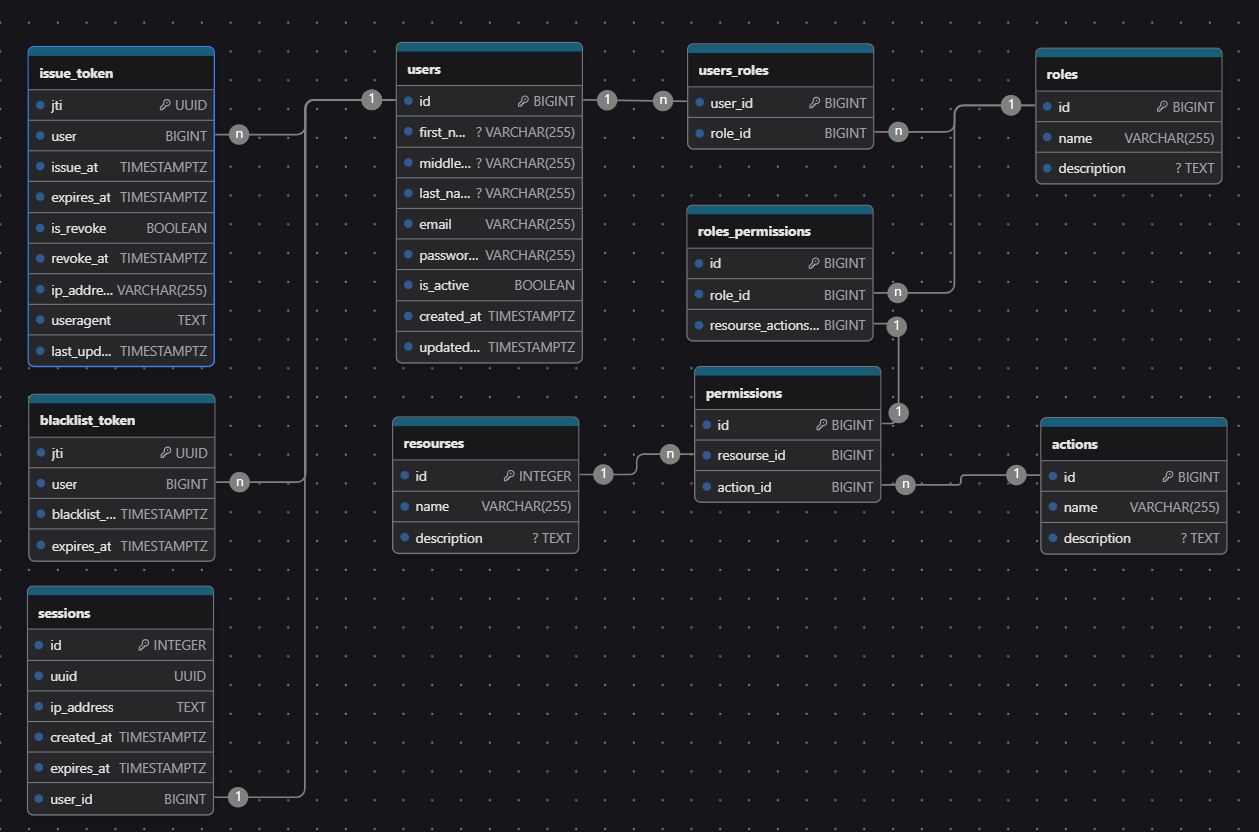
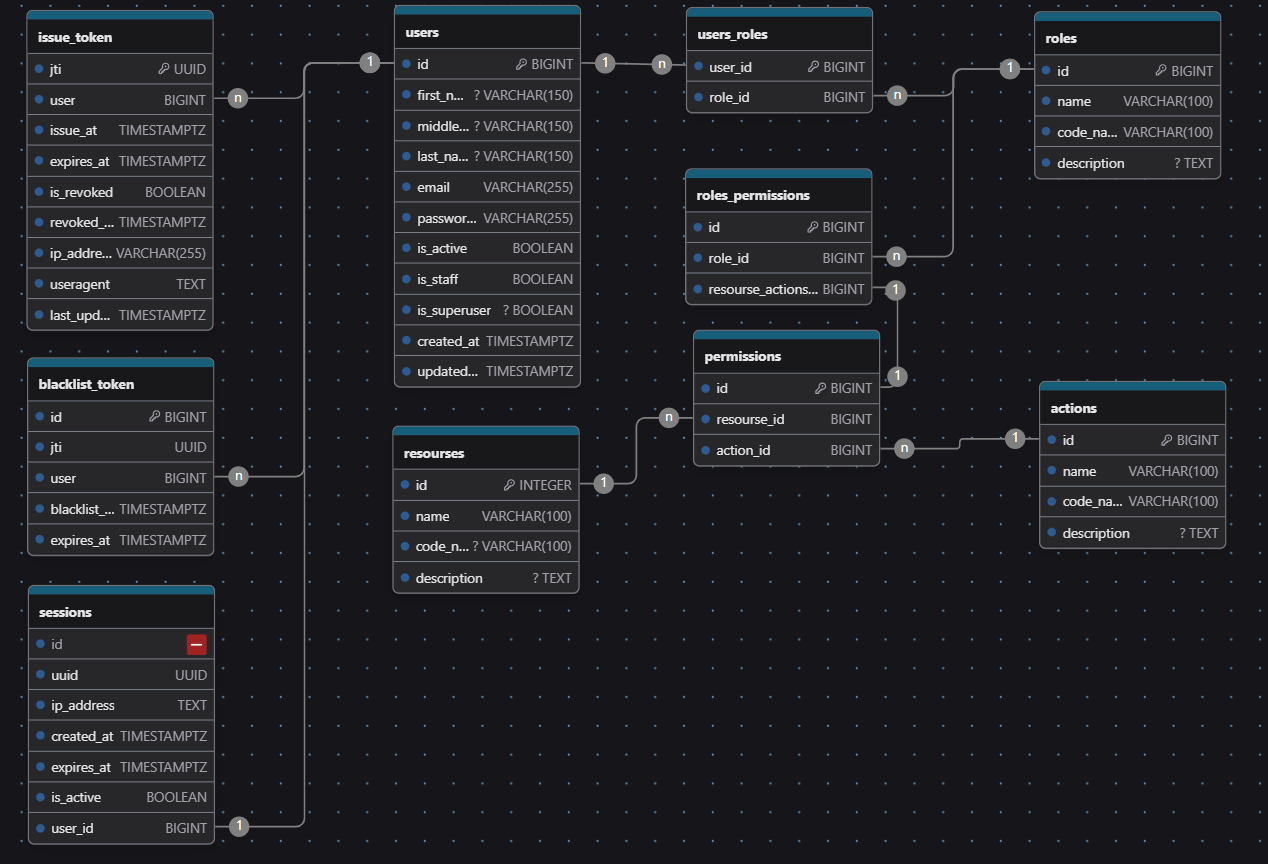
Добавлены
...

Changed region(s): [[0.2478, 0.0, 0.9913, 0.6875], [0.0, 0.0, 0.2478, 1.0]]

diff --git a/auth_app/urls.py b/auth_app/urls.py
@@ -12,6 +12,7 @@ main_router.register(r'users', CustomUserAPIView, basename='user')
 main_router.register(r'roles', RolesAPIView, basename='role')
 main_router.register(r'actions', ActionsViewSet, basename='action')
 main_router.register('resourses', ResoursesAPIView, basename='resourse')
+main_router.register('session', SessionsViewSet, basename='session')
 
 # TODO проверить таблицы в README.md
 urlpatterns = [
@@ -26,7 +27,7 @@ urlpatterns = [
     # path('token/revoke/<int:user_id>/', AdminTokenRevokeAPIView.as_view(), name='admin_token_revoke'),  # Заморозил. Не нашел для чего применить.
     path('token/revoke_all/<int:user_id>/', AdminTokenRevokeALLAPIView.as_view(), name='admin_token_revoke_all'),
 
-    path('me/get_sessions/', MySessionsAPIView.as_view(), name='get_my_sessions'),
+    path('me/get_sessions/', MySessionsAPIView.as_view(), name='get_my_sessions'),  # здесь имеются ввиду refresh токены
     path('me/get_sessions/<int:user_id>', AdminSessionsAPIView.as_view(), name='get_my_sessions'),
     path('me/', MyProfileAPIView.as_view({'get': 'list'}), name='me'),
 

diff --git a/auth_app/permissions/users.py b/auth_app/permissions/users.py
@@ -1,4 +1,4 @@
-from rest_framework.permissions import BasePermission
+from rest_framework.permissions import BasePermission, IsAdminUser
 
 # from auth_app.models import permissions
 
@@ -7,8 +7,17 @@ __all__ = [
     'CanEditUserFieldsPermission',
     'DeleteUserModelPermission',
     'PostUserModelPermission',
+    'IsAdminUser',
+    'IsSupervisor'
 ]
 
+class IsAdminUser(BasePermission):
+    def has_permission(self, request, view):
+        return request.user.is_staff
+
+class IsSupervisor(BasePermission):
+    def has_permission(self, request, view):
+        return request.user.is_superuser
 
 class CanEditUserFieldsPermission(BasePermission):
     message = f'Редактирование полей is_staff & is_superuser доступно только админам!'

diff --git a/auth_app/serializers/resourses.py b/auth_app/serializers/resourses.py
@@ -1,11 +1,11 @@
-from rest_framework import serializers
-
-from auth_app.models import ResourcesModel
-from auth_app.serializers import ActionsSerializer
-
-class ResoursesSerializer(serializers.ModelSerializer):
-    actions = ActionsSerializer(many=True)
-    class Meta:
-        model = ResourcesModel
-        fields = '__all__'
-        read_only_fields = ('id',)
+# from rest_framework import serializers
+#
+# from auth_app.models import ResourcesModel
+# from auth_app.serializers import ActionsSerializer
+#
+# class ResoursesSerializer(serializers.ModelSerializer):
+#     actions = ActionsSerializer(many=True)
+#     class Meta:
+#         model = ResourcesModel
+#         fields = '__all__'
+#         read_only_fields = ('id',)

diff --git a/auth_app/views/users.py b/auth_app/views/users.py
@@ -54,9 +54,9 @@ class CustomUserAPIView(
 
     permission_classes = (
         IsAuthenticated,
-        # CanEditUserFieldsPermission,
-        # DeleteUserModelPermission,
-        # PostUserModelPermission,
+        # CanEditUserFieldsPermission,  # использовал до того как разрешения заработали из базы данных
+        # DeleteUserModelPermission,  # использовал до того как разрешения заработали из базы данных
+        # PostUserModelPermission,  # использовал до того как разрешения заработали из базы данных
         DynamicResourcePermission
 
     )

diff --git a/auth_app/serializers/sessions.py b/auth_app/serializers/sessions.py
@@ -1,9 +1,20 @@
 from rest_framework import serializers
-from auth_app.models import IssueTokenModel
+from auth_app.models import IssueTokenModel, SessionsModel
 
 
 class ActiveSessionTokenSerializer(serializers.ModelSerializer):
     class Meta:
         model = IssueTokenModel
         exclude = ('is_revoked', 'revoked_at', 'issued_at', 'user')
+
+
+class SessionSerializer(serializers.ModelSerializer):
+    class Meta:
+        model = SessionsModel
+        exclude = ('user',)
+        
+
+
+
+
 

diff --git a/auth_app/views/session.py b/auth_app/views/session.py
@@ -1,0 +1,15 @@
+from rest_framework import viewsets
+from rest_framework.permissions import IsAuthenticated
+
+from auth_app.models import SessionsModel
+from auth_app.permissions import IsSupervisor
+from auth_app.serializers.sessions import SessionSerializer
+
+
+class SessionsViewSet(viewsets.ModelViewSet):
+    queryset = SessionsModel.objects.all()
+    serializer_class = SessionSerializer
+    permission_classes = (IsAuthenticated, IsSupervisor)
+
+
+

diff --git a/auth_app/views/resourses.py b/auth_app/views/resourses.py
@@ -3,7 +3,7 @@ from rest_framework.viewsets import ModelViewSet
 
 from auth_app.models import ResourcesModel
 from auth_app.permissions.general import DeveleoperPermission
-from auth_app.serializers.resourses import ResoursesSerializer
+from auth_app.serializers.roles import ResoursesSerializer
 
 
 class ResoursesAPIView(ModelViewSet):

diff --git a/auth_app/views/__init__.py b/auth_app/views/__init__.py
@@ -5,3 +5,4 @@ from .logout import LogoutAPIView
 from .token_service import *
 from .roles import RolesAPIView
 from .resourses import ResoursesAPIView
+from .session import SessionsViewSet

diff --git a/auth_app/serializers/__init__.py b/auth_app/serializers/__init__.py
@@ -1,4 +1,3 @@
 from .users import *
-# from .resourses import ResoursesSerializer
 from .sessions import ActiveSessionTokenSerializer
 from .roles import *
